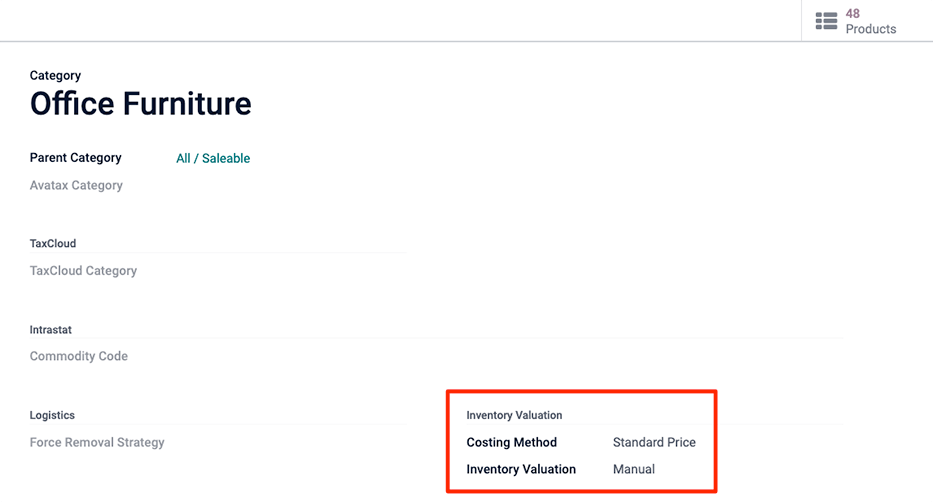
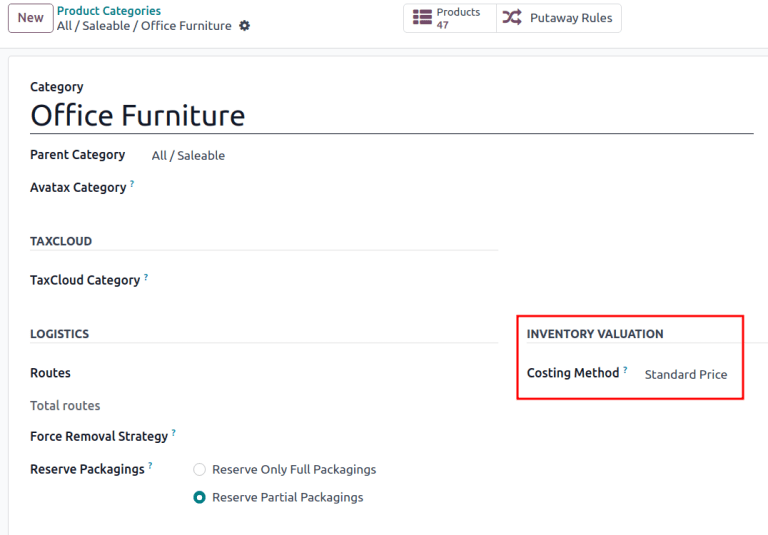
[IMP] inventory: automatic config instructions

diff --git a/content/applications/inventory_and_mrp/inventory/warehouses_storage/inventory_valuation/inventory_valuation_config.rst b/content/applications/inventory_and_mrp/inventory/warehouses_storage/inventory_valuation/inventory_valuation_config.rst
@@ -1,6 +1,6 @@
-=================================
-Inventory valuation configuration
-=================================
+=============================
+Automatic inventory valuation
+=============================
 
 .. |right arrow| replace:: :icon:`fa-arrow-right` :guilabel:`(right arrow)`
 
@@ -9,78 +9,95 @@ be reflected in the company's accounting records to accurately show the value of
 all of its assets.
 
 By default, Odoo uses a periodic inventory valuation (also known as manual inventory valuation).
-This method implies that the accounting team posts journal entries based on the physical inventory
-of the company, and that warehouse employees take the time to count the stock. In Odoo, this method
-is reflected inside each product category, where the :guilabel:`Costing Method` field will be set to
-`Standard Price` by default, and the :guilabel:`Inventory Valuation` field will be set to `Manual`.
+This method implies that the accounting team manually posts journal entries based on the physical
+inventory of the company, and that warehouse employees take the time to count the stock. In Odoo,
+each product category reflects this with the :guilabel:`Costing Method` set to :guilabel:`Standard
+Price` and the :guilabel:`Inventory Valuation` (not visible by default) set to :guilabel:`Manual`.
 
 .. image:: inventory_valuation_config/inventory-valuation-fields.png
    :align: center
-   :alt: The Inventory Valuation fields are located on the Product Categories form.
+   :alt: The Costing Method field is located on the Product Categories form.
 
-Alternatively, automated inventory valuation is an integrated valuation method that updates the
-inventory value in real-time by creating journal entries whenever there are stock moves initiated
-between locations in a company's inventory.
+Alternatively, perpetual (automatic) inventory valuation creates real-time *journal entries* in the
+*Accounting* app whenever stock enters or leaves the company's warehouse.
 
-.. note::
-   Automated inventory valuation is a method recommended for expert accountants, given the extra
-   steps involved in journal entry configuration. Even after the initial setup, the method will
-   need to be periodically checked to ensure accuracy, and adjustments may be needed on an ongoing
-   basis depending on the needs and priorities of the business.
+This document is focused on the proper setup of automatic inventory valuation, which is an
+integrated valuation method that ensures journal entries in *Accounting* match stock valuation
+updates in *Inventory*. For an introduction of inventory valuation in Odoo, refer to the
+:doc:`using_inventory_valuation` documentation.
 
-.. _inventory/inventory_valuation_config/accounting:
+.. warning::
+   Switching to automatic inventory valuation **will not** create journal entries for existing
+   stock, potentially leading to discrepancies between stock valuation and accounting journals.
 
-Types of accounting
-===================
-
-Accounting entries will depend on the accounting mode: *Continental* or *Anglo-Saxon*.
-
-.. tip::
-   Verify the accounting mode by activating the :ref:`developer-mode` and navigating to
-   :menuselection:`Accounting app --> Configuration --> Settings`.
-
-   Then, in the search bar, look for :guilabel:`Anglo-Saxon Accounting`, to see if the feature is
-   enabled. If it is **not** enabled, Continental accounting mode is in use.
-
-   .. image:: inventory_valuation_config/anglo-saxon.png
-      :align: center
-      :alt: Show the Anglo-Saxon accounting mode feature.
-
-In *Anglo-Saxon* accounting, the costs of goods sold (COGS) are reported when products are sold or
-delivered. This means that the cost of a good is only recorded as an expense when a customer is
-invoiced for a product. So for **manual** valuation method, set the :guilabel:`Expense Account` to
-`Stock Valuation` for the current asset type; for **automatic** valuation method, set the the
-:guilabel:`Expense Account` to an *Expenses* or a *Cost of Revenue* type (e.g. `Cost of Production`,
-`Cost of Goods Sold`, etc.).
-
-In *Continental* accounting, the cost of a good is reported as soon as a product is received into
-stock. Because of this, the :guilabel:`Expense Account` can be set to **either** *Expenses* or a
-*Cost of Revenue* type, however, it is more commonly set to an *Expenses* account.
-
-.. seealso::
-   :ref:`Details about configuring Expense and Stock accounts
-   <inventory/management/config-inventory-valuation>`
+   To manually post journal entries for existing stock, navigate to :menuselection:`Inventory app
+   --> Reporting --> Valuation` for a list of current stock and its value. Then, :doc:`post a
+   journal entry <../../../../finance/accounting/vendor_bills>` for each existing item.
 
 Configuration
 =============
 
-Make changes to inventory valuation options by navigating to :menuselection:`Inventory app -->
-Configuration --> Product Categories`. In the :guilabel:`Inventory Valuation` section, select the
-desired :guilabel:`Costing Method` and :guilabel:`Inventory Valuation` options.
+To properly set up automatic inventory valuation, follow these steps in Odoo:
+
+#. :ref:`Install Accounting app and enable settings <inventory/warehouses_storage/accounting-setup>`
+#. :ref:`Set Automatic inventory valuation on product categories
+   <inventory/warehouses_storage/valuation-on-product-category>`
+#. :ref:`Set costing method <inventory/warehouses_storage/costing_methods>`
+
+.. _inventory/warehouses_storage/accounting-setup:
+
+Accounting setup
+----------------
+
+To use automatic inventory valuation, install the *Accounting* app. Next, go to
+:menuselection:`Accounting app --> Configuration --> Settings`, and in the :guilabel:`Stock
+Valuation` section, tick the :guilabel:`Automatic Accounting` checkbox.
 
 .. note::
-   It is possible to use different valuation settings for different product categories.
+   Enabling :guilabel:`Automatic Accounting` shows the previously invisible *Inventory Valuation*
+   field on a product category.
 
-.. image:: inventory_valuation_config/config-inventory-valuation.png
+.. image:: inventory_valuation_config/auto-accounting.png
    :align: center
-   :alt: Show inventory valuation configuration options.
+   :alt: Automatic Accounting feature in Stock Valuation section of Settings page.
 
-.. _inventory/inventory_valuation_config/costing_methods:
+Refer to the :ref:`Expense <inventory/warehouses_storage/expense-account>` and :ref:`Stock
+input/output <inventory/warehouses_storage/stock-account>` sections for details on configuring the
+accounting journals shown.
+
+.. _inventory/warehouses_storage/valuation-on-product-category:
+
+Product category setup
+----------------------
+
+After :ref:`enabling inventory valuation <inventory/warehouses_storage/accounting-setup>`, the next
+step is to set the product category to use automatic inventory valuation.
+
+Go to :menuselection:`Inventory app --> Configuration --> Product Categories` and select the desired
+product category. In the :guilabel:`Inventory Valuation` section, set the :guilabel:`Inventory
+Valuation` field to :guilabel:`Automated`. Repeat this step for every product category intending to
+use automatic inventory valuation.
+
+.. note::
+   After enabling automatic accounting, each new stock move layer (SVL) created during inventory
+   valuation updates generates a journal entry.
+
+.. image:: inventory_valuation_config/automated-inventory-valuation.png
+   :align: center
+   :alt: Inventory Valuation field on the product category, with its various stock accounts.
+
+.. _inventory/warehouses_storage/costing_methods:
 
 Costing method
---------------
+==============
 
-From the product category's configuration page, choose the desired :guilabel:`Costing Method`:
+After :ref:`enabling inventory valuation <inventory/warehouses_storage/accounting-setup>`, the
+*costing method* for calculating and recording inventory costs is defined on the product category in
+Odoo.
+
+Go to :menuselection:`Inventory app --> Configuration --> Product Categories` and select the desired
+product category. In the :guilabel:`Inventory Valuation` section, select the appropriate
+:guilabel:`Costing Method`:
 
 - :guilabel:`Standard Price`: the default costing method in Odoo. The cost of the product is
   manually defined on the product form, and this cost is used to compute the valuation. Even if the
@@ -117,26 +134,52 @@ value, and any product moves from then on affect the average cost, and the cost 
 change. If the value in the :guilabel:`Cost` field on a product form is changed manually, Odoo will
 generate a corresponding record in the *Inventory Valuation* report.
 
-.. _inventory/management/config-inventory-valuation:
+.. note::
+   It is possible to use different valuation settings for different product categories.
 
-Inventory valuation
--------------------
+.. _inventory/warehouses_storage/accounting-types:
 
-Inventory valuation in Odoo can be set to be updated manually or automatically. While *Expense*
-accounts apply to both, the *Stock Input* and *Stock Output* accounts are only used for automated
-valuation.
+Types of accounting
+===================
 
-Refer to the :ref:`Expense <inventory/management/expense-account>` and :ref:`Stock input/output
-<inventory/management/stock-account>` sections for details on configuring each account type.
+With automated inventory valuation set up, the generated journal entries depend on the chosen
+accounting mode: *Continental* or *Anglo-Saxon*.
 
-.. _inventory/management/expense-account:
+.. tip::
+   Verify the accounting mode by activating the :ref:`developer-mode` and navigating to
+   :menuselection:`Accounting app --> Configuration --> Settings`.
+
+   Then, in the search bar, look for :guilabel:`Anglo-Saxon Accounting`, to see if the feature is
+   enabled. If it is **not** enabled, Continental accounting mode is in use.
+
+   .. image:: inventory_valuation_config/anglo-saxon.png
+      :align: center
+      :alt: Show the Anglo-Saxon accounting mode feature.
+
+In *Anglo-Saxon* accounting, the costs of goods sold (COGS) are reported when products are sold or
+delivered. This means that the cost of a good is only recorded as an expense when a customer is
+invoiced for a product. So for **manual** valuation method, set the :guilabel:`Expense Account` to
+`Stock Valuation` for the current asset type; for **automatic** valuation method, set the
+:guilabel:`Expense Account` to an *Expenses* or a *Cost of Revenue* type (e.g. `Cost of Production`,
+`Cost of Goods Sold`, etc.).
+
+In *Continental* accounting, the cost of a good is reported as soon as a product is received into
+stock. Because of this, the :guilabel:`Expense Account` can be set to **either** *Expenses* or a
+*Cost of Revenue* type, however, it is more commonly set to an *Expenses* account.
+
+Refer to the :ref:`Expense <inventory/warehouses_storage/expense-account>` and :ref:`Stock
+input/output <inventory/warehouses_storage/stock-account>` sections for details on configuring each
+account type.
+
+.. _inventory/warehouses_storage/expense-account:
 
 Expense account
-~~~~~~~~~~~~~~~
+---------------
 
-To configure the *expense account*, go to the :guilabel:`Account Properties` section of the intended
-product category (:menuselection:`Inventory app --> Configuration --> Product Categories`). Then,
-choose an existing account from the :guilabel:`Expense Account` drop-down menu.
+To configure the *expense account*, which is used in both manual and automatic inventory valuation,
+go to the :guilabel:`Account Properties` section of the intended product category
+(:menuselection:`Inventory app --> Configuration --> Product Categories`). Then, choose an existing
+account from the :guilabel:`Expense Account` drop-down menu.
 
 To ensure the chosen account is the correct :guilabel:`Type,` click the |right arrow| icon to the
 right of the account. Then, set the account type based on the information below.
@@ -184,7 +227,7 @@ right of the account. Then, set the account type based on the information below.
             Set the :guilabel:`Expense Account` to the :guilabel:`Expenses` or :guilabel:`Cost of
             Revenue` account type.
 
-.. _inventory/management/stock-account:
+.. _inventory/warehouses_storage/stock-account:
 
 Stock input/output (automated only)
 ~~~~~~~~~~~~~~~~~~~~~~~~~~~~~~~~~~~
@@ -248,25 +291,32 @@ In the :guilabel:`Inventory Valuation` field, select :guilabel:`Automated`. Doin
 Inventory valuation reporting
 =============================
 
-To start, go to :menuselection:`Accounting --> Reporting --> Balance Sheet`. At the top of the
-dashboard, change the :guilabel:`As of` field value to :guilabel:`Today`, and adjust the filtering
-:guilabel:`Options` to :guilabel:`Unfold All` in order to see all of the latest data displayed, all
-at once.
+To start, go to :menuselection:`Accounting --> Reporting --> Balance Sheet`. Click the
+:guilabel:`Current Assets` line item to unfold the drop-down menu, and look for the nested
+:guilabel:`Stock Valuation`, :guilabel:`Stock Interim (Received)`, and :guilabel:`Stock Interim
+(Delivered)` lines.
+
+.. tip::
+   At the top of the dashboard, click the :guilabel:`As of` button to display accounting records up
+   to a specified date.
 
 .. seealso::
-   :doc:`../../../../finance/accounting/get_started/cheat_sheet`
+   - :ref:`Stock accounts and what they do <inventory/warehouses_storage/stock-account>`
+   - :doc:`../../../../finance/accounting/get_started/cheat_sheet`
 
-Under the parent :guilabel:`Current Assets` line item, look for the nested :guilabel:`Stock
-Valuation Account` line item, where the total valuation of all of the inventory on hand is
-displayed.
-
-Access more specific information with the :guilabel:`Stock Valuation Account` drop-down menu, by
-selecting either the :guilabel:`General Ledger` to see an itemized view of all of the journal
-entries, or by selecting :guilabel:`Journal Items` to review all of the individualized journal
-entries that were submitted to the account. As well, annotations to the :guilabel:`Balance Sheet`
-can be added by choosing :guilabel:`Annotate`, filling in the text box, and clicking
-:guilabel:`Save`.
-
-.. image:: inventory_valuation_config/stock-valuation-breakdown-in-accounting.png
+.. image:: inventory_valuation_config/stock-balance-sheet.png
    :align: center
    :alt: See the full inventory valuation breakdown in Odoo Accounting app.
+
+Access more specific information by clicking the :icon:`fa-ellipsis` :guilabel:`(ellipsis)` icon to
+the right of the desired journal. Select :guilabel:`General Ledger` to see a list of all of the
+journal entries, where each line item's :icon:`fa-ellipsis` :guilabel:`(ellipsis)` icon can be
+clicked to reveal the :guilabel:`View Journal Entry` option to open the individualized journal
+entry.
+
+As well, annotations to the :guilabel:`Balance Sheet` can be added by choosing :guilabel:`Annotate`,
+filling in the text box, and clicking :guilabel:`Save`.
+
+.. image:: inventory_valuation_config/journals.png
+   :align: center
+   :alt: Show Stock Valuation journals in a list.

diff --git a/content/applications/finance/accounting/get_started/avg_price_valuation.rst b/content/applications/finance/accounting/get_started/avg_price_valuation.rst
@@ -32,7 +32,7 @@ valuation <inventory/avg_price/leaving_inventory>`.
 .. seealso::
    - :doc:`Using inventory valuation
      <../../../inventory_and_mrp/inventory/warehouses_storage/inventory_valuation/using_inventory_valuation>`
-   - :ref:`Other inventory valuation methods <inventory/inventory_valuation_config/costing_methods>`
+   - :ref:`Other inventory valuation methods <inventory/warehouses_storage/costing_methods>`
 
 Configuration
 =============
@@ -263,7 +263,7 @@ value** increases based on the vendor price of the products that have entered th
 account (called **stock input**) is credited and only reconciled once the vendor bill is received.
 
 .. seealso::
-   - :ref:`Anglo-Saxon vs. Continental <inventory/inventory_valuation_config/accounting>`
+   - :ref:`Anglo-Saxon vs. Continental <inventory/warehouses_storage/accounting-types>`
 
 The table below reflects journal entries and accounts. The *stock input* account stores the money
 intended to pay vendors when the vendor bill has not yet been received. To balance accounts when

diff --git a/content/applications/inventory_and_mrp/inventory/warehouses_storage/inventory_valuation/integrating_landed_costs.rst b/content/applications/inventory_and_mrp/inventory/warehouses_storage/inventory_valuation/integrating_landed_costs.rst
@@ -74,8 +74,8 @@ When creating new vendor bills, this product can be added as an invoice line as 
 .. important::
    To apply a landed cost on a vendor bill, the products included in the original |PO| **must**
    belong to a *Product Category* with its *Force Removal Strategy* set to |FIFO|. The *Costing
-   Method* can be set to either |AVCO| or |FIFO|, and the valuation method can be :ref:`manual or
-   automatic <inventory/management/config-inventory-valuation>`.
+   Method* can be set to either |AVCO| or |FIFO|, and the valuation method can be :doc:`manual
+   <using_inventory_valuation>` or :doc:`automatic <inventory_valuation_config>`.
 
 Create purchase order
 =====================